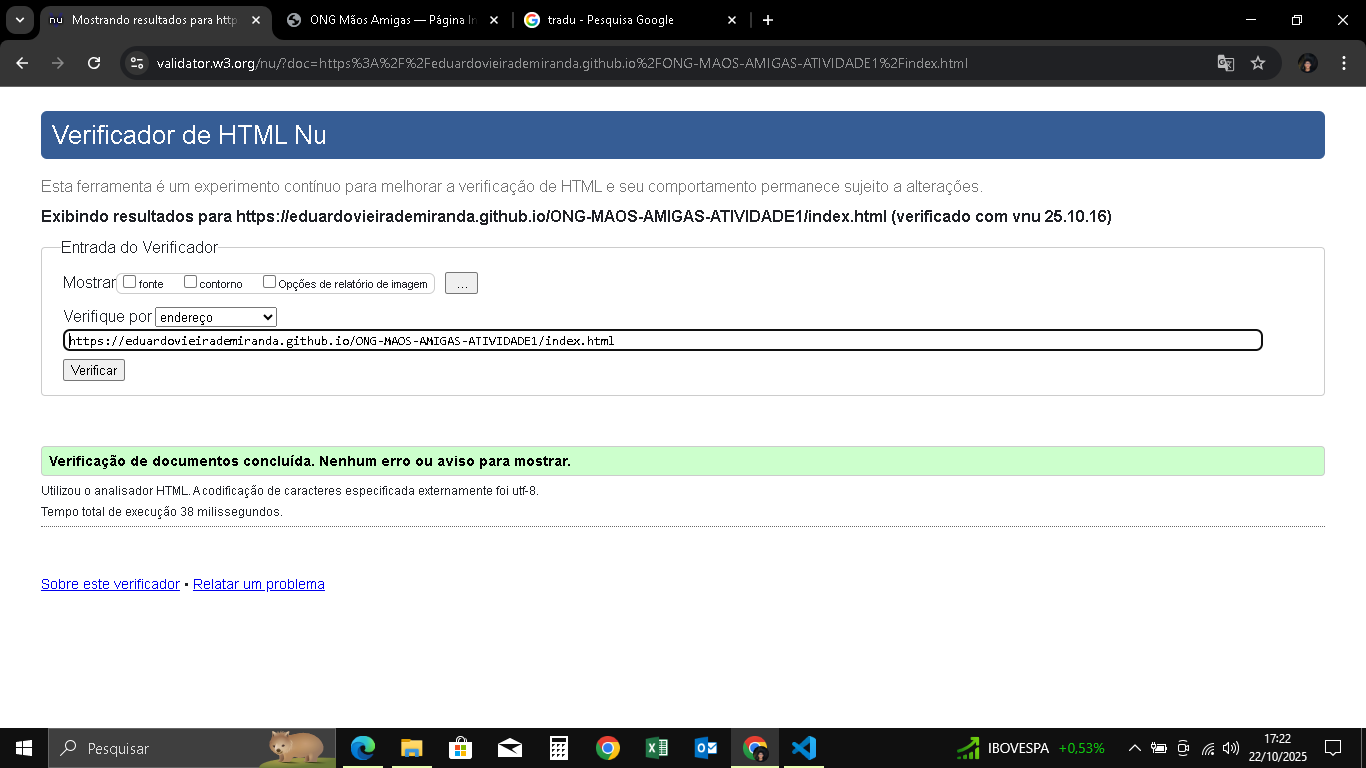
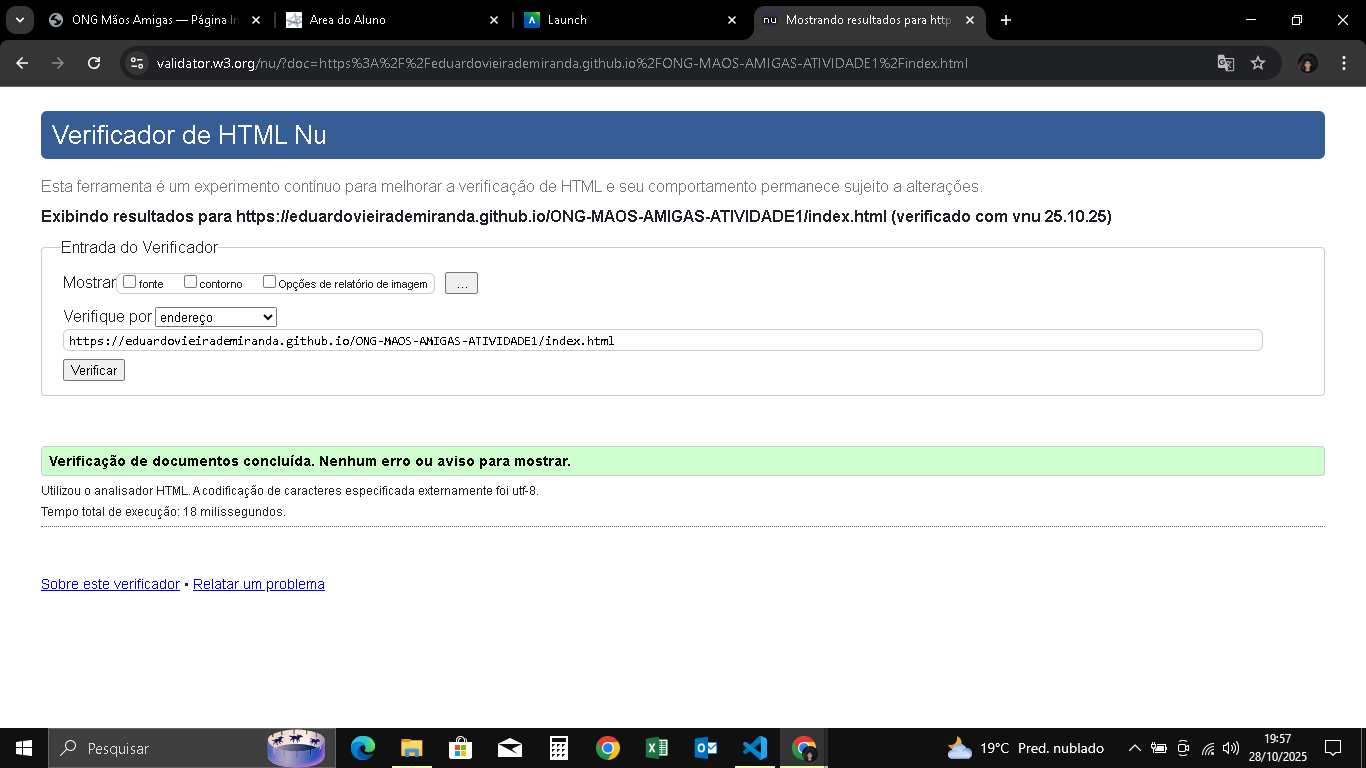
Adiciona novos prints W3C com nomes atualizados

diff --git a/README.md b/README.md
@@ -38,9 +38,9 @@ As páginas estão organizadas de forma semântica e as imagens estão centraliz
 
 ### 🖼 Prints da Validação W3C
 
-![Validação da página index](imagens/index-w3c.png)  
-![Validação da página projetos](imagens/projeto-w3c.png)  
-![Validação da página cadastro](imagens/cadastro-w3c.png)
+![Validação da página index](imagens/index-w3c.png)
+![Validação da página projetos](imagens/proj-w3c.png)  
+![Validação da página cadastro](imagens/cad-w3c.png)
 
 ---
 
